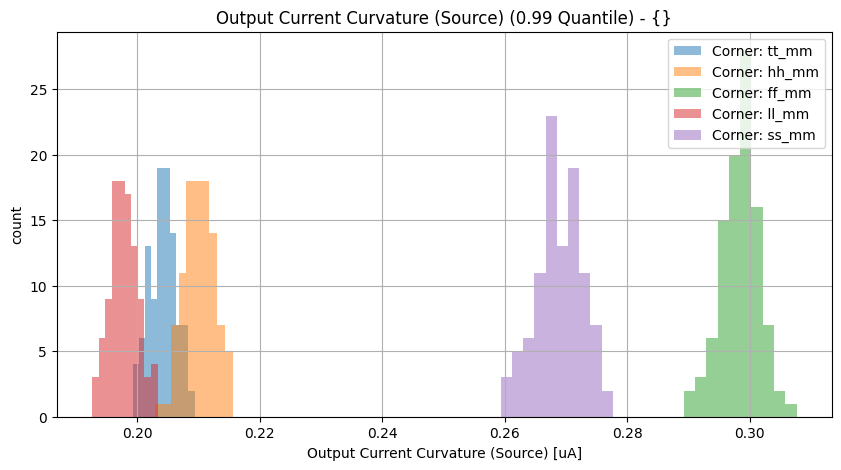
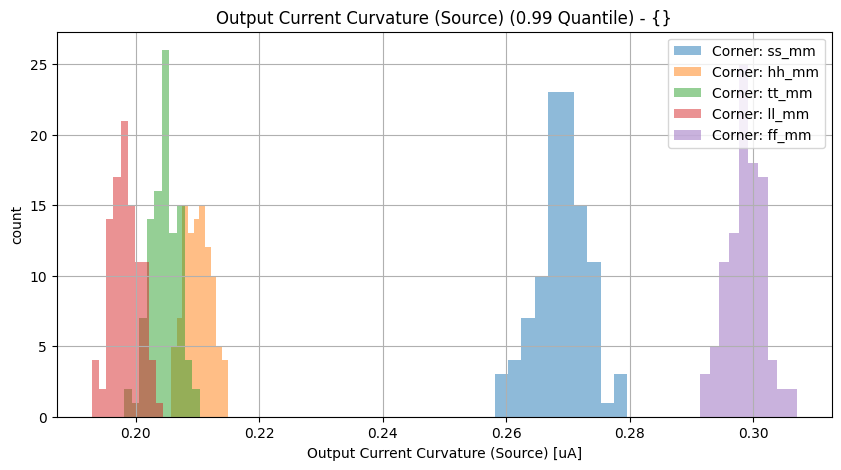
Jenkins update

diff --git a/vthref/vthref/Readme.md b/vthref/vthref/Readme.md
@@ -1,4 +1,4 @@
-05.08.2022, 20:56:17
+06.08.2022, 11:17:20
 
 # Vth Current Reference
 
@@ -30,8 +30,8 @@ LVS-state: Netlists match uniquely.<br>
 
 | Parameter | Min (Spec. / Sim.) |      | Max (Sim. / Spec.) | Unit | Checks (total/pass/fail/NaN) | Comment |
 | :-------- | -----------------: | :--: | :----------------- | :--- | :--------------------------- | ------- |
-| Output Current Curvature (Sink) | 0.0 / 0.191 | <svg height="20" width="150"><polyline points="3.0,3,3.0,17,147.0,17,147.0,3" style="fill:none;stroke:gray;stroke-width:1" /><polyline points="75.0,10.0,75.0,17" style="fill:none;stroke:gray;stroke-width:1" /><polyline points="30.4391712,10.0,47.3399472,10.0" style="stroke:green;stroke-width:2" /><circle cx="30.4391712" cy="10.0" r="3" style="fill:green;stroke:green;stroke-width:0" /><circle cx="47.3399472" cy="10.0" r="3" style="fill:green;stroke:green;stroke-width:0" /></svg> | 0.308 / 1.0 | uA | 500/100.0%/0.0%/0.0% |  |
-| Output Current Curvature (Source) | 0.0 / 0.193 | <svg height="20" width="150"><polyline points="3.0,3,3.0,17,147.0,17,147.0,3" style="fill:none;stroke:gray;stroke-width:1" /><polyline points="75.0,10.0,75.0,17" style="fill:none;stroke:gray;stroke-width:1" /><polyline points="30.74052,10.0,47.305632,10.0" style="stroke:green;stroke-width:2" /><circle cx="30.74052" cy="10.0" r="3" style="fill:green;stroke:green;stroke-width:0" /><circle cx="47.305632" cy="10.0" r="3" style="fill:green;stroke:green;stroke-width:0" /></svg> | 0.308 / 1.0 | uA | 500/100.0%/0.0%/0.0% |  |
+| Output Current Curvature (Sink) | 0.0 / 0.191 | <svg height="20" width="150"><polyline points="3.0,3,3.0,17,147.0,17,147.0,3" style="fill:none;stroke:gray;stroke-width:1" /><polyline points="75.0,10.0,75.0,17" style="fill:none;stroke:gray;stroke-width:1" /><polyline points="30.4841136,10.0,47.612870400000006,10.0" style="stroke:green;stroke-width:2" /><circle cx="30.4841136" cy="10.0" r="3" style="fill:green;stroke:green;stroke-width:0" /><circle cx="47.612870400000006" cy="10.0" r="3" style="fill:green;stroke:green;stroke-width:0" /></svg> | 0.31 / 1.0 | uA | 500/100.0%/0.0%/0.0% |  |
+| Output Current Curvature (Source) | 0.0 / 0.193 | <svg height="20" width="150"><polyline points="3.0,3,3.0,17,147.0,17,147.0,3" style="fill:none;stroke:gray;stroke-width:1" /><polyline points="75.0,10.0,75.0,17" style="fill:none;stroke:gray;stroke-width:1" /><polyline points="30.7878096,10.0,47.211528,10.0" style="stroke:green;stroke-width:2" /><circle cx="30.7878096" cy="10.0" r="3" style="fill:green;stroke:green;stroke-width:0" /><circle cx="47.211528" cy="10.0" r="3" style="fill:green;stroke:green;stroke-width:0" /></svg> | 0.307 / 1.0 | uA | 500/100.0%/0.0%/0.0% |  |
 
 <br>
 
@@ -48,8 +48,8 @@ LVS-state: Netlists match uniquely.<br>
 
 | Parameter | Min (Spec. / Sim.) |      | Max (Sim. / Spec.) | Unit | Checks (total/pass/fail/NaN) | Comment |
 | :-------- | -----------------: | :--: | :----------------- | :--- | :--------------------------- | ------- |
-| Output Current Curvature (Sink) | 0.0 / 0.193 | <svg height="20" width="150"><polyline points="3.0,3,3.0,17,147.0,17,147.0,3" style="fill:none;stroke:gray;stroke-width:1" /><polyline points="75.0,10.0,75.0,17" style="fill:none;stroke:gray;stroke-width:1" /><polyline points="30.802584000000003,10.0,46.064596800000004,10.0" style="stroke:green;stroke-width:2" /><circle cx="30.802584000000003" cy="10.0" r="3" style="fill:green;stroke:green;stroke-width:0" /><circle cx="46.064596800000004" cy="10.0" r="3" style="fill:green;stroke:green;stroke-width:0" /></svg> | 0.299 / 1.0 | uA | 500/100.0%/0.0%/0.0% |  |
-| Output Current Curvature (Source) | 0.0 / 0.197 | <svg height="20" width="150"><polyline points="3.0,3,3.0,17,147.0,17,147.0,3" style="fill:none;stroke:gray;stroke-width:1" /><polyline points="75.0,10.0,75.0,17" style="fill:none;stroke:gray;stroke-width:1" /><polyline points="31.328630399999998,10.0,48.0577008,10.0" style="stroke:green;stroke-width:2" /><circle cx="31.328630399999998" cy="10.0" r="3" style="fill:green;stroke:green;stroke-width:0" /><circle cx="48.0577008" cy="10.0" r="3" style="fill:green;stroke:green;stroke-width:0" /></svg> | 0.313 / 1.0 | uA | 500/100.0%/0.0%/0.0% |  |
+| Output Current Curvature (Sink) | 0.0 / 0.193 | <svg height="20" width="150"><polyline points="3.0,3,3.0,17,147.0,17,147.0,3" style="fill:none;stroke:gray;stroke-width:1" /><polyline points="75.0,10.0,75.0,17" style="fill:none;stroke:gray;stroke-width:1" /><polyline points="30.7816608,10.0,45.9992496,10.0" style="stroke:green;stroke-width:2" /><circle cx="30.7816608" cy="10.0" r="3" style="fill:green;stroke:green;stroke-width:0" /><circle cx="45.9992496" cy="10.0" r="3" style="fill:green;stroke:green;stroke-width:0" /></svg> | 0.299 / 1.0 | uA | 500/100.0%/0.0%/0.0% |  |
+| Output Current Curvature (Source) | 0.0 / 0.196 | <svg height="20" width="150"><polyline points="3.0,3,3.0,17,147.0,17,147.0,3" style="fill:none;stroke:gray;stroke-width:1" /><polyline points="75.0,10.0,75.0,17" style="fill:none;stroke:gray;stroke-width:1" /><polyline points="31.216036799999998,10.0,48.5911776,10.0" style="stroke:green;stroke-width:2" /><circle cx="31.216036799999998" cy="10.0" r="3" style="fill:green;stroke:green;stroke-width:0" /><circle cx="48.5911776" cy="10.0" r="3" style="fill:green;stroke:green;stroke-width:0" /></svg> | 0.317 / 1.0 | uA | 500/100.0%/0.0%/0.0% |  |
 
 <br>
 

diff --git a/vthref/vthref/specReport.md b/vthref/vthref/specReport.md
@@ -12,8 +12,8 @@
 
 | Parameter | Min (Spec. / Sim.) |      | Max (Sim. / Spec.) | Unit | Checks (total/pass/fail/NaN) | Comment |
 | :-------- | -----------------: | :--: | :----------------- | :--- | :--------------------------- | ------- |
-| Output Current Curvature (Sink) | 0.0 / 0.191 | <svg height="20" width="150"><polyline points="3.0,3,3.0,17,147.0,17,147.0,3" style="fill:none;stroke:gray;stroke-width:1" /><polyline points="75.0,10.0,75.0,17" style="fill:none;stroke:gray;stroke-width:1" /><polyline points="30.4391712,10.0,47.3399472,10.0" style="stroke:green;stroke-width:2" /><circle cx="30.4391712" cy="10.0" r="3" style="fill:green;stroke:green;stroke-width:0" /><circle cx="47.3399472" cy="10.0" r="3" style="fill:green;stroke:green;stroke-width:0" /></svg> | 0.308 / 1.0 | uA | 500/100.0%/0.0%/0.0% |  |
-| Output Current Curvature (Source) | 0.0 / 0.193 | <svg height="20" width="150"><polyline points="3.0,3,3.0,17,147.0,17,147.0,3" style="fill:none;stroke:gray;stroke-width:1" /><polyline points="75.0,10.0,75.0,17" style="fill:none;stroke:gray;stroke-width:1" /><polyline points="30.74052,10.0,47.305632,10.0" style="stroke:green;stroke-width:2" /><circle cx="30.74052" cy="10.0" r="3" style="fill:green;stroke:green;stroke-width:0" /><circle cx="47.305632" cy="10.0" r="3" style="fill:green;stroke:green;stroke-width:0" /></svg> | 0.308 / 1.0 | uA | 500/100.0%/0.0%/0.0% |  |
+| Output Current Curvature (Sink) | 0.0 / 0.191 | <svg height="20" width="150"><polyline points="3.0,3,3.0,17,147.0,17,147.0,3" style="fill:none;stroke:gray;stroke-width:1" /><polyline points="75.0,10.0,75.0,17" style="fill:none;stroke:gray;stroke-width:1" /><polyline points="30.4841136,10.0,47.612870400000006,10.0" style="stroke:green;stroke-width:2" /><circle cx="30.4841136" cy="10.0" r="3" style="fill:green;stroke:green;stroke-width:0" /><circle cx="47.612870400000006" cy="10.0" r="3" style="fill:green;stroke:green;stroke-width:0" /></svg> | 0.31 / 1.0 | uA | 500/100.0%/0.0%/0.0% |  |
+| Output Current Curvature (Source) | 0.0 / 0.193 | <svg height="20" width="150"><polyline points="3.0,3,3.0,17,147.0,17,147.0,3" style="fill:none;stroke:gray;stroke-width:1" /><polyline points="75.0,10.0,75.0,17" style="fill:none;stroke:gray;stroke-width:1" /><polyline points="30.7878096,10.0,47.211528,10.0" style="stroke:green;stroke-width:2" /><circle cx="30.7878096" cy="10.0" r="3" style="fill:green;stroke:green;stroke-width:0" /><circle cx="47.211528" cy="10.0" r="3" style="fill:green;stroke:green;stroke-width:0" /></svg> | 0.307 / 1.0 | uA | 500/100.0%/0.0%/0.0% |  |
 
 <br>
 
@@ -30,7 +30,7 @@
 
 | Parameter | Min (Spec. / Sim.) |      | Max (Sim. / Spec.) | Unit | Checks (total/pass/fail/NaN) | Comment |
 | :-------- | -----------------: | :--: | :----------------- | :--- | :--------------------------- | ------- |
-| Output Current Curvature (Sink) | 0.0 / 0.193 | <svg height="20" width="150"><polyline points="3.0,3,3.0,17,147.0,17,147.0,3" style="fill:none;stroke:gray;stroke-width:1" /><polyline points="75.0,10.0,75.0,17" style="fill:none;stroke:gray;stroke-width:1" /><polyline points="30.802584000000003,10.0,46.064596800000004,10.0" style="stroke:green;stroke-width:2" /><circle cx="30.802584000000003" cy="10.0" r="3" style="fill:green;stroke:green;stroke-width:0" /><circle cx="46.064596800000004" cy="10.0" r="3" style="fill:green;stroke:green;stroke-width:0" /></svg> | 0.299 / 1.0 | uA | 500/100.0%/0.0%/0.0% |  |
-| Output Current Curvature (Source) | 0.0 / 0.197 | <svg height="20" width="150"><polyline points="3.0,3,3.0,17,147.0,17,147.0,3" style="fill:none;stroke:gray;stroke-width:1" /><polyline points="75.0,10.0,75.0,17" style="fill:none;stroke:gray;stroke-width:1" /><polyline points="31.328630399999998,10.0,48.0577008,10.0" style="stroke:green;stroke-width:2" /><circle cx="31.328630399999998" cy="10.0" r="3" style="fill:green;stroke:green;stroke-width:0" /><circle cx="48.0577008" cy="10.0" r="3" style="fill:green;stroke:green;stroke-width:0" /></svg> | 0.313 / 1.0 | uA | 500/100.0%/0.0%/0.0% |  |
+| Output Current Curvature (Sink) | 0.0 / 0.193 | <svg height="20" width="150"><polyline points="3.0,3,3.0,17,147.0,17,147.0,3" style="fill:none;stroke:gray;stroke-width:1" /><polyline points="75.0,10.0,75.0,17" style="fill:none;stroke:gray;stroke-width:1" /><polyline points="30.7816608,10.0,45.9992496,10.0" style="stroke:green;stroke-width:2" /><circle cx="30.7816608" cy="10.0" r="3" style="fill:green;stroke:green;stroke-width:0" /><circle cx="45.9992496" cy="10.0" r="3" style="fill:green;stroke:green;stroke-width:0" /></svg> | 0.299 / 1.0 | uA | 500/100.0%/0.0%/0.0% |  |
+| Output Current Curvature (Source) | 0.0 / 0.196 | <svg height="20" width="150"><polyline points="3.0,3,3.0,17,147.0,17,147.0,3" style="fill:none;stroke:gray;stroke-width:1" /><polyline points="75.0,10.0,75.0,17" style="fill:none;stroke:gray;stroke-width:1" /><polyline points="31.216036799999998,10.0,48.5911776,10.0" style="stroke:green;stroke-width:2" /><circle cx="31.216036799999998" cy="10.0" r="3" style="fill:green;stroke:green;stroke-width:0" /><circle cx="48.5911776" cy="10.0" r="3" style="fill:green;stroke:green;stroke-width:0" /></svg> | 0.317 / 1.0 | uA | 500/100.0%/0.0%/0.0% |  |
 
 <br>

diff --git a/bmbg/bmbgota/Readme.md b/bmbg/bmbgota/Readme.md
@@ -1,4 +1,4 @@
-05.08.2022, 20:56:17
+06.08.2022, 11:17:20
 
 # Beta-Multiplier Bandgap OTA
 

diff --git a/bmbg/bmbg/Readme.md b/bmbg/bmbg/Readme.md
@@ -1,4 +1,4 @@
-05.08.2022, 20:56:17
+06.08.2022, 11:17:20
 
 # Beta-Multiplier Bandgap
 

diff --git a/riosc/riosc/Readme.md b/riosc/riosc/Readme.md
@@ -1,4 +1,4 @@
-05.08.2022, 20:56:17
+06.08.2022, 11:17:20
 
 # Ring Oscillator
 

diff --git a/ldo/ldo/Readme.md b/ldo/ldo/Readme.md
@@ -1,4 +1,4 @@
-05.08.2022, 20:56:17
+06.08.2022, 11:17:19
 
 # 1.8 V LDO
 

diff --git a/ldo/ldoota/Readme.md b/ldo/ldoota/Readme.md
@@ -1,4 +1,4 @@
-05.08.2022, 20:56:17
+06.08.2022, 11:17:19
 
 # LDO OP
 
